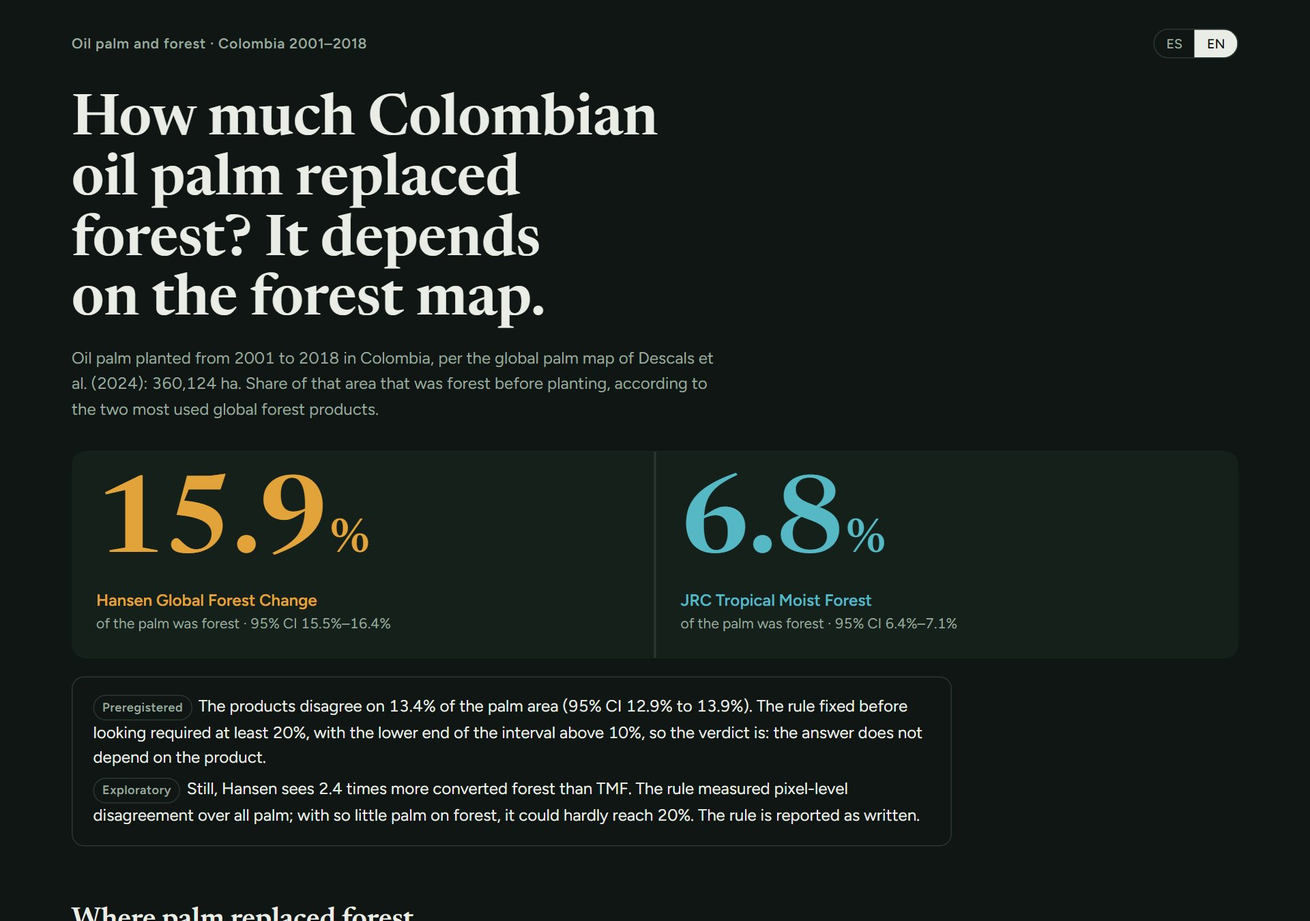
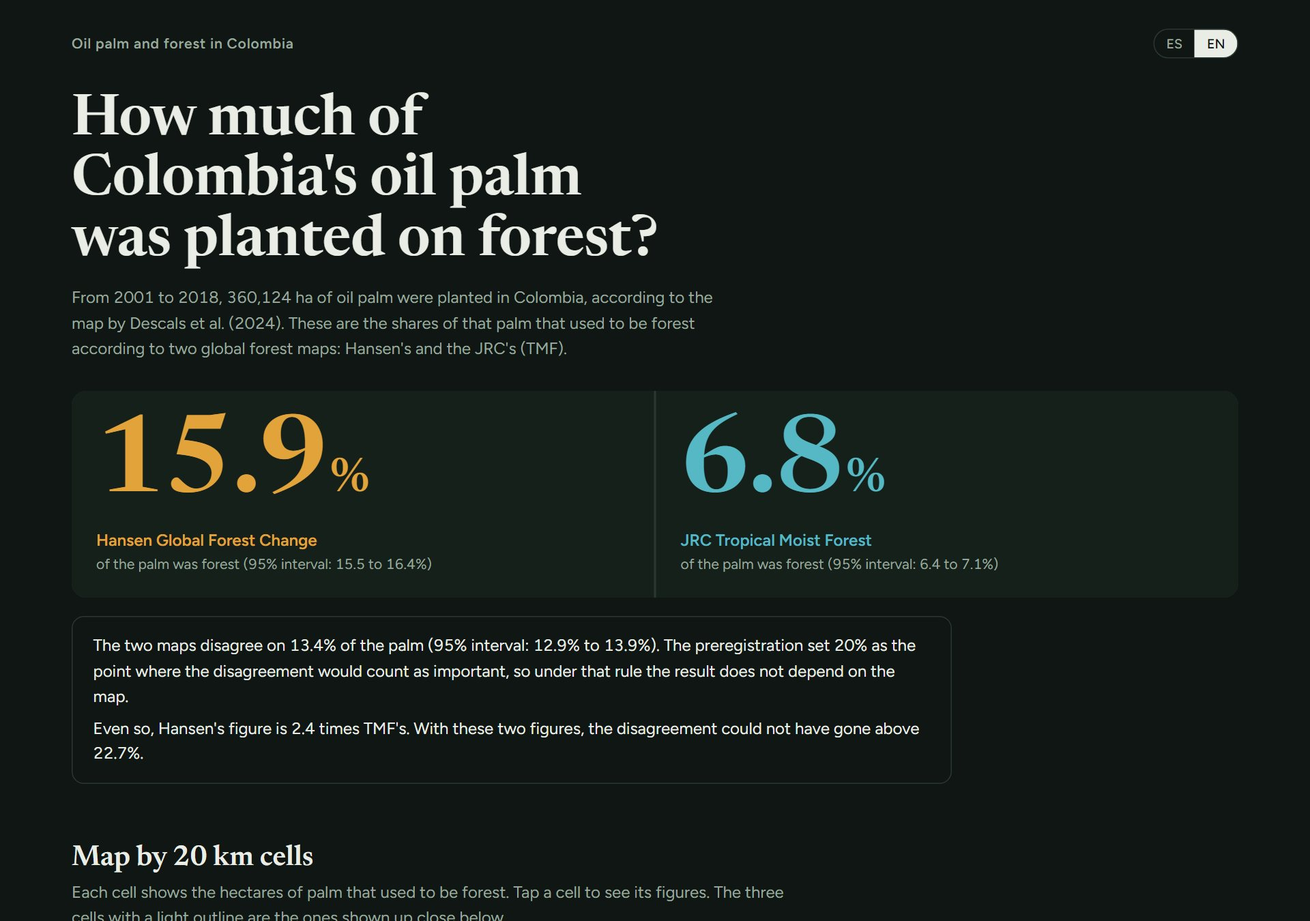
Plainer wording in README and dashboard: descriptive headings, no labels, no conclusions stated for the reader

Changed region(s): [[0.0312, 0.0933, 0.75, 1.0], [0.1562, 0.0311, 0.2812, 0.0622]]

diff --git a/docs/index.html b/docs/index.html
@@ -98,8 +98,8 @@ footer{padding:48px 0 60px;color:var(--faint);font-size:14px}
   <div><div class="num t" id="nT"></div><div class="who t">JRC Tropical Moist Forest</div><div class="ci" id="ciT"></div></div>
 </div>
 <div class="verdict">
-  <div><span class="tag" data-i="tagPre"></span><span id="verdict"></span></div>
-  <div><span class="tag" data-i="tagExp"></span><span id="explo"></span></div>
+  <p id="verdict" style="margin:0"></p>
+  <p id="explo" style="margin:0"></p>
 </div>
 
 <section>
@@ -169,56 +169,58 @@ footer{padding:48px 0 60px;color:var(--faint);font-size:14px}
 
 <script>
 const T = {
- es:{brand:"Palma de aceite y bosque · Colombia 2001–2018",
-  title:"¿Cuánta palma de aceite reemplazó bosque en Colombia? Depende del mapa de bosque.",
-  lede:"Palma sembrada entre 2001 y 2018 en Colombia, según el mapa global de palma de Descals et al. (2024): {palm} ha. Porcentaje de esa área que era bosque antes de la siembra, según los dos productos globales de bosque más usados.",
-  pctOf:"de la palma era bosque", tagPre:"Preregistrado", tagExp:"Exploratorio",
-  verdictTxt:"Los productos discrepan en {d} del área de palma (IC 95 %: {lo} a {hi}). La regla fijada antes de mirar pedía al menos 20 %, con el límite inferior del intervalo por encima de 10 %, así que el veredicto es: la respuesta no depende del producto.",
-  exploTxt:"Aun así, Hansen ve {r} veces más bosque convertido que TMF. La regla medía desacuerdo píxel a píxel sobre toda la palma; con tan poca palma sobre bosque, ese desacuerdo difícilmente llegaba a 20 %. Se reporta la regla tal como se escribió.",
-  mapH:"Dónde la palma reemplazó bosque", mapSub:"Celdas de 20 km con palma sembrada entre 2001 y 2018. El color es la palma que era bosque, en hectáreas. Toca una celda para ver sus cifras; las tres celdas marcadas son las de detalle.",
-  disagreeBtn:"Desacuerdo", yearH:"Por año de siembra", bandNote:"banda: IC 95 % de la muestra",
-  yearNote:"No es una tendencia. Las reglas solo cuentan pérdida desde 2001: para la palma sembrada en 2001 solo entran los años 2001 a 2003, y el bosque talado antes no cuenta. Los primeros años salen bajos por construcción.",
-  deptH:"Por departamento (muestra, n ≥ 100)",
-  detH:"Tres celdas de cerca, en el Magdalena Medio", detSub:"Elegidas con la regla del preregistro, sobre una grilla de 20 km (EPSG:9377) que se definió al implementar: entre las celdas con al menos 500 ha de palma, las dos con más palma sobre bosque según ambos productos y las dos con mayor desacuerdo. Una celda está en las dos listas, por eso son tres.",
-  swipe:"Antes / después", planted:"Sembrada hasta", compareBtn:"Comparar", offBtn:"Sin píxeles",
-  falseColour:"Falso color Landsat (SWIR, infrarrojo cercano, rojo): la vegetación sale verde y la palma joven, más clara y en retícula.",
-  palmF:"palma sobre bosque", palmNF:"palma sin bosque previo", noDis:"palma sin desacuerdo", hOnly:"solo Hansen dice bosque", tOnly:"solo TMF dice bosque", bothF:"los dos dicen bosque",
-  fPalm:"Palma 2001–2018", fH:"Bosque según Hansen", fT:"Bosque según TMF", fD:"Desacuerdo",
-  centre:"Municipio en el centro de la celda: {m}. Composiciones con {a} y {b} escenas.",
-  howH:"Cómo se hizo y qué no dice",
-  limits:["Bosque según Hansen: cobertura arbórea de 30 % o más en 2000 y pérdida entre 2001 y el año de siembra + 2. Según TMF: bosque no perturbado o degradado en 2000 y deforestado en esa misma ventana. Los 2 años de margen cubren el error del año de siembra.",
-   "Muestra aleatoria simple de 20.000 píxeles de 30 m, intervalos por bootstrap (2.000 remuestreos). El cálculo sobre toda el área cae dentro de los intervalos.",
-   "En Hansen, el año de pérdida viene vacío donde no hubo pérdida, y así se lee: 15.936 de los 20.000 píxeles de la muestra lo traen vacío y ninguno trae 0.",
-   "Ninguno de los dos productos es la verdad. El año de siembra corresponde a la última rotación: una palma vieja resembrada puede parecer bosque para Hansen.",
-   "TMF solo cubre bosque húmedo tropical. La palma sobre bosque seco del Caribe no puede contar como bosque para TMF; por eso las cifras se dan por departamento.",
-   "No es una evaluación del reglamento europeo de deforestación (EUDR), cuya fecha de corte es el 31 de diciembre de 2020.",
-   "En tres celdas se muestran píxeles de palma de 30 m, que dejan ver la forma de las plantaciones, igual que la imagen satelital. No hay linderos de predios, propietarios ni empresas."],
-  footer:"Datos: BIOPAMA Global Oil Palm v1.2 (Descals et al. 2024), Hansen GFC 2025 v1.13, JRC TMF v1 2025, Landsat Colección 2. Procesado en Google Earth Engine. El preregistro, el código y las pruebas están en el repositorio."},
- en:{brand:"Oil palm and forest · Colombia 2001–2018",
-  title:"How much Colombian oil palm replaced forest? It depends on the forest map.",
-  lede:"Oil palm planted from 2001 to 2018 in Colombia, per the global palm map of Descals et al. (2024): {palm} ha. Share of that area that was forest before planting, according to the two most used global forest products.",
-  pctOf:"of the palm was forest", tagPre:"Preregistered", tagExp:"Exploratory",
-  verdictTxt:"The products disagree on {d} of the palm area (95% CI {lo} to {hi}). The rule fixed before looking required at least 20%, with the lower end of the interval above 10%, so the verdict is: the answer does not depend on the product.",
-  exploTxt:"Still, Hansen sees {r} times more converted forest than TMF. The rule measured pixel-level disagreement over all palm; with so little palm on forest, it could hardly reach 20%. The rule is reported as written.",
-  mapH:"Where palm replaced forest", mapSub:"20 km cells with palm planted 2001 to 2018. Colour is palm that was forest, in hectares. Tap a cell for its numbers; the three outlined cells are the detail cells.",
-  disagreeBtn:"Disagreement", yearH:"By planting year", bandNote:"band: sample 95% CI",
-  yearNote:"Not a trend. The rules count loss only from 2001: for palm planted in 2001 only 2001 to 2003 enter, and forest cleared earlier does not count. Early years are low by construction.",
-  deptH:"By department (sample, n ≥ 100)",
-  detH:"Three cells up close, in the Middle Magdalena", detSub:"Chosen with the preregistered rule, on a 20 km grid (EPSG:9377) defined at implementation: among cells with at least 500 ha of palm, the two with the most palm on forest by both products and the two with the largest disagreement. One cell is in both lists, so there are three.",
-  swipe:"Before / after", planted:"Planted up to", compareBtn:"Compare", offBtn:"No pixels",
-  falseColour:"Landsat false colour (SWIR, near infrared, red): vegetation shows green, young palm lighter and in a grid.",
-  palmF:"palm on forest", palmNF:"palm with no prior forest", noDis:"palm with no disagreement", hOnly:"only Hansen says forest", tOnly:"only TMF says forest", bothF:"both say forest",
-  fPalm:"Palm 2001–2018", fH:"Forest per Hansen", fT:"Forest per TMF", fD:"Disagreement",
-  centre:"Municipality at the cell centre: {m}. Composites from {a} and {b} scenes.",
-  howH:"How it was done, and what it does not say",
-  limits:["Forest per Hansen: tree cover of 30% or more in 2000 and loss between 2001 and planting year + 2. Per TMF: undisturbed or degraded forest in 2000 and deforested in the same window. The 2-year margin covers planting-year error.",
-   "Simple random sample of 20,000 pixels of 30 m, bootstrap intervals (2,000 resamples). The wall-to-wall computation falls inside the intervals.",
-   "In Hansen the loss year is empty where there was no loss, and it is read that way: 15,936 of the 20,000 sample pixels have it empty and none has 0.",
-   "Neither product is the truth. Planting year is the last rotation: old palm replanted can look like forest to Hansen.",
-   "TMF covers tropical moist forest only. Palm on Caribbean dry forest cannot count as forest for TMF, which is why results are given by department.",
-   "This is not an assessment under the EU Deforestation Regulation (EUDR), whose cut-off date is 31 December 2020.",
-   "Three cells show 30 m palm pixels, which reveal the shape of plantations, as the satellite image does. There are no property boundaries, owners or companies."],
-  footer:"Data: BIOPAMA Global Oil Palm v1.2 (Descals et al. 2024), Hansen GFC 2025 v1.13, JRC TMF v1 2025, Landsat Collection 2. Processed in Google Earth Engine. Preregistration, code and tests are in the repository."}
+ es:{brand:"Palma de aceite y bosque en Colombia",
+  title:"¿Cuánta palma de aceite se sembró sobre bosque en Colombia?",
+  lede:"Entre 2001 y 2018 se sembraron en Colombia {palm} ha de palma de aceite, según el mapa de Descals et al. (2024). Estas son las proporciones de esa palma que antes eran bosque según dos mapas globales de bosque: el de Hansen y el del JRC (TMF).",
+  pctOf:"de la palma era bosque", ciLbl:"intervalo de 95 %: {lo} a {hi} %",
+  verdictTxt:"Los dos mapas discrepan en el {d} de la palma (intervalo de 95 %: {lo} a {hi}). En el preregistro se fijó que la discrepancia contaría como importante a partir de 20 %, así que con esa regla el resultado no depende del mapa.",
+  exploTxt:"Aun así, Hansen da {r} veces lo que da TMF. Con estas dos cifras, la discrepancia no podía pasar de {max}.",
+  mapH:"Mapa por celdas de 20 km", mapSub:"Cada celda muestra las hectáreas de palma que antes eran bosque. Al tocar una celda aparecen sus cifras. Las tres celdas con borde claro son las que se ven de cerca más abajo.",
+  disagreeBtn:"Discrepancia", yearH:"Según el año de siembra", bandNote:"franja: intervalo de 95 %",
+  yearNote:"Las reglas solo cuentan pérdida desde 2001. Para la palma sembrada en 2001 solo entran 2001, 2002 y 2003, así que los primeros años salen bajos aunque haya habido tala antes.",
+  deptH:"Por departamento (con al menos 100 píxeles en la muestra)",
+  detH:"Tres celdas en el Magdalena Medio", detSub:"Se eligieron con la regla del preregistro: entre las celdas con al menos 500 ha de palma, las dos con más palma sobre bosque según ambos mapas y las dos con más discrepancia. Puerto Wilches está en las dos listas, por eso son tres. La grilla se armó después de tener los resultados nacionales.",
+  swipe:"Antes y después", planted:"Sembrada hasta", compareBtn:"Comparar", offBtn:"Solo imagen",
+  falseColour:"La imagen está en falso color: la vegetación se ve verde y la palma joven, más clara y en cuadrícula.",
+  palmF:"palma que era bosque", palmNF:"palma que no era bosque", noDis:"sin discrepancia", hOnly:"bosque solo para Hansen", tOnly:"bosque solo para TMF", bothF:"bosque para los dos",
+  fPalm:"Palma sembrada 2001–2018", fH:"Era bosque según Hansen", fT:"Era bosque según TMF", fD:"Discrepancia",
+  centre:"En el centro de la celda está el municipio de {m}. Las imágenes combinan {a} escenas de 1999 a 2001 y {b} escenas de 2022 a 2024.",
+  howH:"Método y limitaciones",
+  limits:["Para Hansen, un píxel de palma era bosque si en 2000 tenía al menos 30 % de cobertura arbórea y la perdió entre 2001 y dos años después de la siembra. Para TMF, si en diciembre de 2000 era bosque sin perturbar o degradado y fue deforestado en ese mismo periodo. Los dos años de margen dan espacio al error en el año de siembra.",
+   "Las cifras salen de una muestra aleatoria de 20.000 píxeles de 30 m, con intervalos por bootstrap de 2.000 remuestreos. El cálculo sobre todos los píxeles cae dentro de esos intervalos.",
+   "Hansen deja vacío el año de pérdida cuando no hubo pérdida, y así se interpreta. En la muestra, 15.936 de los 20.000 píxeles lo tienen vacío y ninguno tiene 0.",
+   "No se usaron datos de campo. Lo que se mide es cuánto cambia la respuesta de un mapa de bosque a otro, no cuánto bosque se perdió.",
+   "El año de siembra es el de la última rotación. Una palma vieja que se tumbó y se volvió a sembrar puede contar como bosque para Hansen, que mide cobertura arbórea y no tipo de bosque.",
+   "TMF solo cubre bosque húmedo tropical, así que la palma sembrada sobre bosque seco en el Caribe no cuenta como bosque para TMF.",
+   "No es una evaluación para el reglamento europeo de deforestación (EUDR), cuya fecha de corte es el 31 de diciembre de 2020.",
+   "Las tres celdas de detalle muestran píxeles de palma de 30 m. No hay linderos de predios, propietarios ni empresas."],
+  footer:"Datos: BIOPAMA Global Oil Palm v1.2 (Descals et al. 2024), Hansen GFC 2025 v1.13, JRC TMF v1 2025 y Landsat Colección 2, procesados en Google Earth Engine. El preregistro, el código y las pruebas están en el repositorio de GitHub."},
+ en:{brand:"Oil palm and forest in Colombia",
+  title:"How much of Colombia's oil palm was planted on forest?",
+  lede:"From 2001 to 2018, {palm} ha of oil palm were planted in Colombia, according to the map by Descals et al. (2024). These are the shares of that palm that used to be forest according to two global forest maps: Hansen's and the JRC's (TMF).",
+  pctOf:"of the palm was forest", ciLbl:"95% interval: {lo} to {hi}%",
+  verdictTxt:"The two maps disagree on {d} of the palm (95% interval: {lo} to {hi}). The preregistration set 20% as the point where the disagreement would count as important, so under that rule the result does not depend on the map.",
+  exploTxt:"Even so, Hansen's figure is {r} times TMF's. With these two figures, the disagreement could not have gone above {max}.",
+  mapH:"Map by 20 km cells", mapSub:"Each cell shows the hectares of palm that used to be forest. Tap a cell to see its figures. The three cells with a light outline are the ones shown up close below.",
+  disagreeBtn:"Disagreement", yearH:"By planting year", bandNote:"band: 95% interval",
+  yearNote:"The rules only count loss from 2001 on. For palm planted in 2001 only 2001, 2002 and 2003 enter, so the first years come out low even where forest was cleared earlier.",
+  deptH:"By department (at least 100 pixels in the sample)",
+  detH:"Three cells in the Middle Magdalena", detSub:"They were picked with the preregistered rule: among cells with at least 500 ha of palm, the two with the most palm on forest according to both maps and the two with the most disagreement. Puerto Wilches is in both lists, so there are three. The grid was built after the national results were in.",
+  swipe:"Before and after", planted:"Planted up to", compareBtn:"Compare", offBtn:"Image only",
+  falseColour:"The image is in false colour: vegetation looks green, and young palm lighter and in a grid.",
+  palmF:"palm that was forest", palmNF:"palm that was not forest", noDis:"no disagreement", hOnly:"forest for Hansen only", tOnly:"forest for TMF only", bothF:"forest for both",
+  fPalm:"Palm planted 2001–2018", fH:"Was forest per Hansen", fT:"Was forest per TMF", fD:"Disagreement",
+  centre:"The municipality at the centre of the cell is {m}. The images combine {a} scenes from 1999 to 2001 and {b} scenes from 2022 to 2024.",
+  howH:"Method and limitations",
+  limits:["For Hansen, a palm pixel was forest if it had at least 30% tree cover in 2000 and lost it between 2001 and two years after planting. For TMF, if it was undisturbed or degraded forest in December 2000 and was deforested in that same period. The two extra years leave room for error in the planting year.",
+   "The figures come from a random sample of 20,000 pixels of 30 m, with bootstrap intervals from 2,000 resamples. The calculation over all pixels falls inside those intervals.",
+   "Hansen leaves the loss year empty where there was no loss, and it is read that way. In the sample, 15,936 of the 20,000 pixels have it empty and none has 0.",
+   "No field data were used. What is measured is how much the answer changes from one forest map to the other, not how much forest was lost.",
+   "The planting year is that of the last rotation. Old palm that was cut and replanted can count as forest for Hansen, which measures tree cover and not forest type.",
+   "TMF only covers tropical moist forest, so palm planted on dry forest in the Caribbean does not count as forest for TMF.",
+   "This is not an assessment for the EU Deforestation Regulation (EUDR), whose cut-off date is 31 December 2020.",
+   "The three detail cells show 30 m palm pixels. There are no property boundaries, owners or companies."],
+  footer:"Data: BIOPAMA Global Oil Palm v1.2 (Descals et al. 2024), Hansen GFC 2025 v1.13, JRC TMF v1 2025 and Landsat Collection 2, processed in Google Earth Engine. The preregistration, code and tests are in the GitHub repository."}
 };
 const town = id => S.cells[id].municipality + " (" + S.cells[id].department + ")";
 let L = "es", S, G, cur = null, mapMode = "hansen", pxMode = "hansen";
@@ -238,11 +240,10 @@ function text() {
   $(".lede").textContent = fill(T[L].lede, {palm: fmt(S.wall_to_wall.palm_ha)});
   const h = res("all", "hansen"), t = res("all", "tmf"), d = res("all", "disagree");
   $("#nH").innerHTML = fmt(h.estimate * 100, 1) + "<small>%</small>"; $("#nT").innerHTML = fmt(t.estimate * 100, 1) + "<small>%</small>";
-  const ci = L === "es" ? " · IC 95 % " : " · 95% CI ";
-  $("#ciH").textContent = T[L].pctOf + ci + pct(h.lo95) + "–" + pct(h.hi95);
-  $("#ciT").textContent = T[L].pctOf + ci + pct(t.lo95) + "–" + pct(t.hi95);
+  $("#ciH").textContent = T[L].pctOf + " (" + fill(T[L].ciLbl, {lo: fmt(h.lo95 * 100, 1), hi: fmt(h.hi95 * 100, 1)}) + ")";
+  $("#ciT").textContent = T[L].pctOf + " (" + fill(T[L].ciLbl, {lo: fmt(t.lo95 * 100, 1), hi: fmt(t.hi95 * 100, 1)}) + ")";
   $("#verdict").textContent = fill(T[L].verdictTxt, {d: pct(d.estimate), lo: pct(d.lo95), hi: pct(d.hi95)});
-  $("#explo").textContent = fill(T[L].exploTxt, {r: fmt(h.estimate / t.estimate, 1)});
+  $("#explo").textContent = fill(T[L].exploTxt, {r: fmt(h.estimate / t.estimate, 1), max: pct(h.estimate + t.estimate)});
   $("#limits").innerHTML = T[L].limits.map(x => "<li>" + x + "</li>").join("");
   document.querySelectorAll(".lang button").forEach(b => b.setAttribute("aria-pressed", b.dataset.lang === L));
   drawMap(); drawYears(); drawDepts(); tabs(); facts(); legendPx();

diff --git a/README.md b/README.md
@@ -1,90 +1,86 @@
 # Oil palm and forest in Colombia
 
-How much of the oil palm planted in Colombia between 2001 and 2018 was forest before it was planted? The answer depends on which global forest map is asked, and this repository measures by how much. Hansen Global Forest Change and JRC Tropical Moist Forest (TMF) are applied, pixel by pixel, to the global oil palm planting-year map of Descals et al. (2024), under rules written down before any forest-loss value was read over palm ([PREREGISTRATION.md](PREREGISTRATION.md)).
+Of the 360,124 ha of oil palm planted in Colombia from 2001 to 2018, 15.9 % was forest before planting according to Hansen Global Forest Change, and 6.8 % according to JRC Tropical Moist Forest (TMF). Both forest maps were applied pixel by pixel to the oil palm planting-year map of Descals et al. (2024), with rules written in [PREREGISTRATION.md](PREREGISTRATION.md) before any forest-loss value was read over palm.
 
-**Dashboard: https://linaq11.github.io/palm-deforestation-colombia/** (English and Spanish)
+Dashboard, in English and Spanish: https://linaq11.github.io/palm-deforestation-colombia/
 
 ![Dashboard: share of palm that was forest according to each product](docs/screenshot_en.jpg)
 
-*[Leer en español](#en-español)*
+[Español](#español)
 
-## Result
+## Results
 
-Oil palm planted from 2001 to 2018 in Colombia (LSIB outline): **360,124 ha** (wall-to-wall).
-
-| Share of that palm that was forest before planting | Estimate | 95 % interval |
+| Palm planted 2001 to 2018 that was forest before planting | Estimate | 95 % interval |
 |---|---|---|
-| According to Hansen | **15.9 %** | 15.5 to 16.4 |
-| According to TMF | **6.8 %** | 6.4 to 7.1 |
-| According to both | 4.6 % | 4.3 to 4.9 |
-| Disagreement (exactly one product says forest) | 13.4 % | 12.9 to 13.9 |
+| Hansen | **15.9 %** | 15.5 to 16.4 |
+| TMF | **6.8 %** | 6.4 to 7.1 |
+| Both | 4.6 % | 4.3 to 4.9 |
+| Only one of the two | 13.4 % | 12.9 to 13.9 |
 
-Simple random sample of 20,000 palm pixels of 30 m, 2,000 bootstrap resamples. The wall-to-wall shares (16.0, 6.9, 4.8 and 13.4 %) fall inside every interval, which was the preregistered check that the sample and the code agree.
+The estimates come from a simple random sample of 20,000 palm pixels of 30 m, with 2,000 bootstrap resamples. Computed over all palm pixels, the four shares are 16.0, 6.9, 4.8 and 13.4 %, each inside its interval.
 
-**Preregistered verdict.** The products were to be called in material disagreement if they disagreed on at least 20 % of the palm area with the lower end of the interval above 10 %. They disagree on 13.4 %, so under the rule fixed in advance **the answer does not depend on the product**. The stated expectation was met only in part: Hansen does give the higher share, but the disagreement is not material by that rule.
+The preregistration called the products in material disagreement if they disagreed on at least 20 % of the palm area, with the lower end of the interval above 10 %. They disagree on 13.4 %, so by that rule the answer does not depend on the product. Of the two expectations written beforehand, Hansen above TMF was met and material disagreement was not.
 
-**Exploratory, not preregistered.** Hansen still finds 2.4 times as much converted forest as TMF in the sample (2.3 times wall-to-wall). The rule measured pixel-level disagreement over all palm, and with only about one palm pixel in six on former forest according to Hansen, it could hardly reach 20 %. The rule is reported as it was written.
+Outside the preregistration: Hansen's share is 2.4 times TMF's in the sample and 2.3 times over all pixels. With shares of 15.9 and 6.8 %, the disagreement could not have exceeded 22.7 %.
 
-### By type of grower, threshold and department
-
-| | Hansen | TMF | Disagreement | Sample pixels |
+| | Hansen | TMF | Only one | Sample pixels |
 |---|---|---|---|---|
 | Industrial | 15.2 % | 6.3 % | 12.7 % | 15,612 |
 | Smallholder | 18.8 % | 8.3 % | 16.1 % | 4,388 |
 | Hansen tree cover ≥ 10 % instead of 30 % | 16.1 % | 6.8 % | 13.6 % | 20,000 |
 | Hansen tree cover ≥ 50 % | 15.6 % | 6.8 % | 13.1 % | 20,000 |
 
-By department (sample, at least 100 pixels, no intervals), Hansen gives 39 % in Norte de Santander, 29 % in Cundinamarca and 28 % in Santander, against 9 % in Meta, 5 % in Casanare and under 1 % in Vichada. TMF finds more than Hansen in two departments: Antioquia (19 % against 7 %, 293 pixels) and Córdoba (2.8 % against 1.4 %, 143 pixels). The full table is in [data/results_department.csv](data/results_department.csv).
+In departments with at least 100 sample pixels, Hansen gives 39 % in Norte de Santander, 29 % in Cundinamarca and 28 % in Santander, against 9 % in Meta, 5 % in Casanare and under 1 % in Vichada. TMF is higher than Hansen in Antioquia (19 % against 7 %, 293 pixels) and Córdoba (2.8 % against 1.4 %, 143 pixels). Department figures have no intervals; the full table is [data/results_department.csv](data/results_department.csv).
 
 ![National 20 km grid and the department comparison](docs/screenshot_es_map.jpg)
 
-### Three cells up close
+## Detail cells
 
-The preregistration fixed how the detail areas would be chosen: on a 20 km grid, among the cells with at least 500 ha of palm (137 of them), the two with the most palm on forest according to both products and the two with the largest disagreement. The grid itself (EPSG:9377, cells aligned to its origin) was defined at implementation, after the national results were in. One cell is in both lists (second in the first, first in the second), so the rule gives three cells, next to each other in the Middle Magdalena.
+The preregistered rule picks, on a 20 km grid and among the 137 cells with at least 500 ha of palm, the two cells with the most palm on forest according to both products and the two with the largest disagreement. Puerto Wilches is in both lists, so there are three cells, next to each other in the Middle Magdalena. The grid (EPSG:9377) was defined after the national results were in.
 
-| Cell | Municipality at the cell centre (FAO GAUL 2015) | Palm | Forest, both products | Disagreement |
+| Cell | Municipality at the cell centre (FAO GAUL 2015) | Palm | Forest for both | Disagreement |
 |---|---|---|---|---|
 | E4940_N2400 | San Alberto, Cesar | 6,785 ha | 2,035 ha | 1,510 ha |
 | E4900_N2360 | Puerto Wilches, Santander | 8,408 ha | 1,915 ha | 2,714 ha |
 | E4920_N2360 | Sabana de Torres, Santander | 10,785 ha | 1,064 ha | 2,397 ha |
 
-In the dashboard each cell has a Landsat swipe (1999 to 2001 against 2022 to 2024), a planting-year slider and the palm pixels coloured by product.
+The dashboard shows each cell with Landsat composites from 1999 to 2001 and from 2022 to 2024, a planting-year slider and the palm pixels coloured by product.
 
-![Puerto Wilches: Landsat swipe with the pixels where the products agree and disagree](docs/screenshot_es_detail.jpg)
+![Puerto Wilches: Landsat composites with the pixels where the products agree and disagree](docs/screenshot_es_detail.jpg)
 
-## Rules
+## Method
 
-For a palm pixel with planting year Y (industrial or smallholder, Y from 2001 to 2018):
+For a palm pixel planted in year Y (industrial or smallholder, Y from 2001 to 2018):
 
-- **Hansen says forest** if tree cover in 2000 was at least 30 % and loss was recorded between 2001 and Y + 2.
-- **TMF says forest** if the pixel was undisturbed or degraded forest in December 2000 and was recorded as deforested in some year from 2001 to Y + 2.
+- Hansen counts it as forest if tree cover in 2000 was at least 30 % and loss was recorded between 2001 and Y + 2.
+- TMF counts it as forest if it was undisturbed or degraded forest in December 2000 and was recorded as deforested in some year from 2001 to Y + 2.
 
-The two years after planting allow for error in the planting year. Both rules live in [src/palmforest/rules.py](src/palmforest/rules.py) and are tested on synthetic pixels with known histories (forest cleared then planted, pasture planted, old palm replanted, forest cleared ten years earlier, clearing after the margin, degraded forest, regrowth). Each rule was broken on purpose before the real run and a test failed each time, but that first round was not logged. After an audit showed that the tests did not pin the two-year margin or the exact threshold, boundary cases were added and the breaks were repeated and recorded in [tests/NEGATIVE_TESTS.md](tests/NEGATIVE_TESTS.md); the rules did not change.
+The two years after planting allow for error in the planting year. Both rules are in [src/palmforest/rules.py](src/palmforest/rules.py), with 18 tests on synthetic pixels of known history, including the exact edges of the two-year margin and the 30 % threshold. Deliberate breaks of the rules and the tests they tripped are listed in [tests/NEGATIVE_TESTS.md](tests/NEGATIVE_TESTS.md).
 
-## What it does not say
+## Limitations
 
-- Neither product is the truth. The comparison measures how much the answer moves with the forest map, not how much forest was really lost.
-- The planting year is the last rotation. Old palm cleared and replanted can look like forest to Hansen, which counts tree cover and not forest type.
-- The rules count loss only from 2001 (Hansen's loss record starts in 2001, and the TMF rule asks for forest in December 2000), so palm planted in the first years shows less forest by construction. The chart by planting year is not a trend. The preregistration justified the 2001 start by saying both products begin their loss record that year; that holds for Hansen but not for TMF, whose annual record goes back to 1990. The rule was kept as written.
-- Hansen leaves the loss year empty where there was no loss, and the rules read it that way: 15,936 of the 20,000 sample pixels have it empty and none has 0 ([data/input_checks.json](data/input_checks.json)). The wall-to-wall check cannot test this, because both sides make the same reading.
-- TMF maps tropical moist forest only. Palm on dry forest in the Caribbean cannot count as forest for TMF, which is one reason the results are given by department.
-- It is not an assessment under the EU Deforestation Regulation, whose cut-off date is 31 December 2020.
-- Three detail cells show 30 m palm pixels, which reveal the shape of plantations, as the satellite image does. There are no property boundaries, owners or companies anywhere in the repository.
+- No field data were used. The comparison shows how far the answer moves between two forest maps, not how much forest was lost.
+- The planting year is the last rotation. Old palm cleared and replanted can count as forest for Hansen, which records tree cover and not forest type.
+- Loss is counted only from 2001, so palm planted in the first years shows less forest by construction, and the chart by planting year is not a trend. The preregistration says both products start their loss record in 2001. That is true of Hansen; the TMF annual record starts in 1990.
+- Hansen leaves the loss year empty where there was no loss, and it is read that way: 15,936 of the 20,000 sample pixels have it empty and none has 0 ([data/input_checks.json](data/input_checks.json)). The wall-to-wall check makes the same reading, so it cannot test it.
+- TMF maps tropical moist forest only. Palm on dry forest in the Caribbean cannot count as forest for TMF.
+- This is not an assessment under the EU Deforestation Regulation, whose cut-off date is 31 December 2020.
+- The three detail cells show 30 m palm pixels. There are no property boundaries, owners or companies in the repository.
 
-## Reproduce
+## Reproducing the analysis
 
-Needs an Earth Engine project with the API enabled (`earthengine authenticate` once). Commands are for a POSIX shell. To recompute the wall-to-wall sums from scratch, delete `data/cells_w2w.csv` first.
+An Earth Engine project with the API enabled is needed (`earthengine authenticate` once). The commands are for a POSIX shell.
 
 ```bash
 pip install -r requirements.txt
-PYTHONPATH=src python -m pytest -q tests          # the rules on synthetic pixels
-python scripts/tiled.py --project <ee-project>    # wall-to-wall sums (reused if data/cells_w2w.csv exists) and the sample
-python scripts/analyze.py                         # estimates, intervals, decision rule -> data/results*.csv, results.txt
-python scripts/grid20km.py --project <ee-project> # 20 km grid and the detail cells
-python scripts/dashboard_data.py --project <ee-project>   # files read by docs/index.html
+PYTHONPATH=src python -m pytest -q tests          # rules on synthetic pixels
+python scripts/tiled.py --project <ee-project>    # wall-to-wall sums and the sample
+python scripts/analyze.py                         # estimates, intervals, decision rule
+python scripts/grid20km.py --project <ee-project> # 20 km grid and detail cells
+python scripts/dashboard_data.py --project <ee-project>   # files for docs/index.html
 ```
 
-`tiled.py` runs everything on 0.5 degree cells. The first versions, `sample.py --export` and `wall_to_wall.py --export`, ran as single Earth Engine tasks over the whole country and timed out after about two hours; they are kept because `tiled.py` reuses their layers and rules. The change is recorded in the implementation note at the end of the preregistration, written before any result was seen. The pixel sample itself (`data/sample.csv`) is not in the repository; it is rebuilt by `tiled.py`.
+`tiled.py` works on 0.5 degree cells and reuses `data/cells_w2w.csv` if it exists; delete it to recompute the wall-to-wall sums. The single-task versions (`sample.py --export`, `wall_to_wall.py --export`) timed out in Earth Engine after about two hours. `tiled.py` reuses their layers and rules, and the change is noted at the end of the preregistration. `data/sample.csv` is not tracked and `tiled.py` rebuilds it.
 
 ## Data
 
@@ -96,24 +92,24 @@ python scripts/dashboard_data.py --project <ee-project>   # files read by docs/i
 | Country and departments | `USDOS/LSIB_SIMPLE/2017`, `FAO/GAUL/2015/level1` | |
 | Imagery | Landsat 5, 7, 8 and 9, Collection 2 surface reflectance | |
 
----
-
-## En español
-
-¿Cuánta de la palma de aceite sembrada en Colombia entre 2001 y 2018 era bosque antes de la siembra? La respuesta depende del mapa de bosque que se consulte, y este repositorio mide cuánto. Hansen Global Forest Change y JRC Tropical Moist Forest (TMF) se aplican píxel a píxel sobre el mapa global de año de siembra de palma de Descals et al. (2024), con reglas escritas antes de leer cualquier valor de pérdida de bosque sobre palma ([PREREGISTRATION.md](PREREGISTRATION.md)).
-
-**Resultado.** La palma sembrada entre 2001 y 2018 en Colombia (contorno LSIB) suma 360.124 ha. Según Hansen, el 15,9 % de esa área era bosque (IC 95 %: 15,5 a 16,4); según TMF, el 6,8 % (6,4 a 7,1). Los productos discrepan en el 13,4 % del área (12,9 a 13,9). El cálculo sobre toda el área cae dentro de los cuatro intervalos.
-
-**Veredicto preregistrado.** La regla exigía un desacuerdo de al menos 20 %, con el límite inferior del intervalo por encima de 10 %, para hablar de discrepancia material. Con 13,4 %, el veredicto es que la respuesta no depende del producto. La expectativa declarada se cumplió solo a medias: Hansen sí da más que TMF, pero el desacuerdo no llega a ser material según la regla.
-
-**Exploratorio.** Aun así, Hansen encuentra 2,4 veces más bosque convertido que TMF en la muestra (2,3 veces en el cálculo sobre toda el área). La regla medía desacuerdo píxel a píxel sobre toda la palma, y con cerca de un píxel de cada seis sobre lo que antes era bosque según Hansen, ese desacuerdo difícilmente llegaba a 20 %. Se reporta la regla tal como se escribió.
-
-**Por departamento** (muestra, sin intervalos). Según Hansen, la palma sobre bosque es 39 % en Norte de Santander, 29 % en Cundinamarca y 28 % en Santander, contra 9 % en Meta, 5 % en Casanare y menos de 1 % en Vichada. TMF supera a Hansen en dos departamentos: Antioquia (19 % contra 7 %, 293 píxeles) y Córdoba (2,8 % contra 1,4 %, 143 píxeles). En los pequeños productores la proporción es mayor que en la palma industrial (18,8 % contra 15,2 % según Hansen).
-
-**Celdas de detalle.** La regla preregistrada, aplicada a una grilla de 20 km que se definió al implementar, después de tener los resultados nacionales, dio tres celdas vecinas en el Magdalena Medio (San Alberto, Puerto Wilches y Sabana de Torres) porque una de ellas está en las dos listas. El dashboard las muestra con imágenes Landsat de 1999 a 2001 y de 2022 a 2024.
-
-**Lo que no dice.** Ninguno de los dos productos es la verdad. El año de siembra corresponde a la última rotación. Las reglas solo cuentan pérdida desde 2001, así que los primeros años de siembra salen bajos por construcción. En Hansen, el año de pérdida vacío se lee como «sin pérdida». TMF solo cubre bosque húmedo tropical. No es una evaluación del reglamento europeo de deforestación (EUDR), cuya fecha de corte es el 31 de diciembre de 2020. En tres celdas se muestran píxeles de palma de 30 m, que dejan ver la forma de las plantaciones, igual que la imagen satelital; no hay linderos de predios, propietarios ni empresas.
-
 ## License
 
-Code under the MIT License ([LICENSE](LICENSE)). The input datasets keep their own terms; the Earth Engine catalog lists the oil palm map and Hansen Global Forest Change under CC BY 4.0.
+Code under the MIT License ([LICENSE](LICENSE)). The input datasets keep their own terms. The Earth Engine catalog lists the oil palm map and Hansen Global Forest Change under CC BY 4.0.
+
+---
+
+## Español
+
+De las 360.124 ha de palma de aceite sembradas en Colombia entre 2001 y 2018, el 15,9 % era bosque antes de la siembra según Hansen Global Forest Change y el 6,8 % según JRC Tropical Moist Forest (TMF). Los dos mapas de bosque se aplicaron píxel a píxel sobre el mapa de año de siembra de Descals et al. (2024), con reglas escritas en el [preregistro](PREREGISTRATION.md) antes de leer cualquier valor de pérdida de bosque sobre palma.
+
+Los intervalos de 95 % son 15,5 a 16,4 % para Hansen y 6,4 a 7,1 % para TMF. Los dos productos coinciden en que era bosque en el 4,6 % del área y discrepan en el 13,4 % (12,9 a 13,9). Se usó una muestra aleatoria simple de 20.000 píxeles y 2.000 remuestreos bootstrap. El cálculo sobre todos los píxeles cae dentro de los cuatro intervalos.
+
+El preregistro fijaba un desacuerdo de al menos 20 %, con el límite inferior del intervalo por encima de 10 %, para hablar de discrepancia material. Con 13,4 %, la respuesta no depende del producto según esa regla. De las dos expectativas escritas de antemano, se cumplió que Hansen diera más que TMF y no se cumplió que el desacuerdo fuera material.
+
+Fuera del preregistro, Hansen da 2,4 veces lo que da TMF en la muestra y 2,3 veces sobre todos los píxeles. Con 15,9 y 6,8 %, el desacuerdo no podía pasar de 22,7 %.
+
+En los pequeños productores la proporción es mayor que en la palma industrial (18,8 % contra 15,2 % según Hansen). Por departamento, Hansen da 39 % en Norte de Santander, 29 % en Cundinamarca y 28 % en Santander, contra 9 % en Meta, 5 % en Casanare y menos de 1 % en Vichada. TMF da más que Hansen en Antioquia (19 % contra 7 %, 293 píxeles) y en Córdoba (2,8 % contra 1,4 %, 143 píxeles). Las cifras por departamento no tienen intervalos.
+
+La regla preregistrada para las celdas de detalle, aplicada a una grilla de 20 km definida después de tener los resultados nacionales, dio tres celdas vecinas en el Magdalena Medio: San Alberto, Puerto Wilches y Sabana de Torres. Puerto Wilches está en las dos listas. El dashboard las muestra con imágenes Landsat de 1999 a 2001 y de 2022 a 2024.
+
+No se usaron datos de campo, así que la comparación muestra cuánto cambia la respuesta entre dos mapas de bosque y no cuánto bosque se perdió. El año de siembra corresponde a la última rotación. La pérdida solo se cuenta desde 2001, por lo que los primeros años de siembra salen bajos por construcción. En Hansen, el año de pérdida vacío se lee como ausencia de pérdida. TMF solo cubre bosque húmedo tropical. No es una evaluación del reglamento europeo de deforestación (EUDR), cuya fecha de corte es el 31 de diciembre de 2020. Las tres celdas de detalle muestran píxeles de palma de 30 m, y en el repositorio no hay linderos de predios, propietarios ni empresas.
